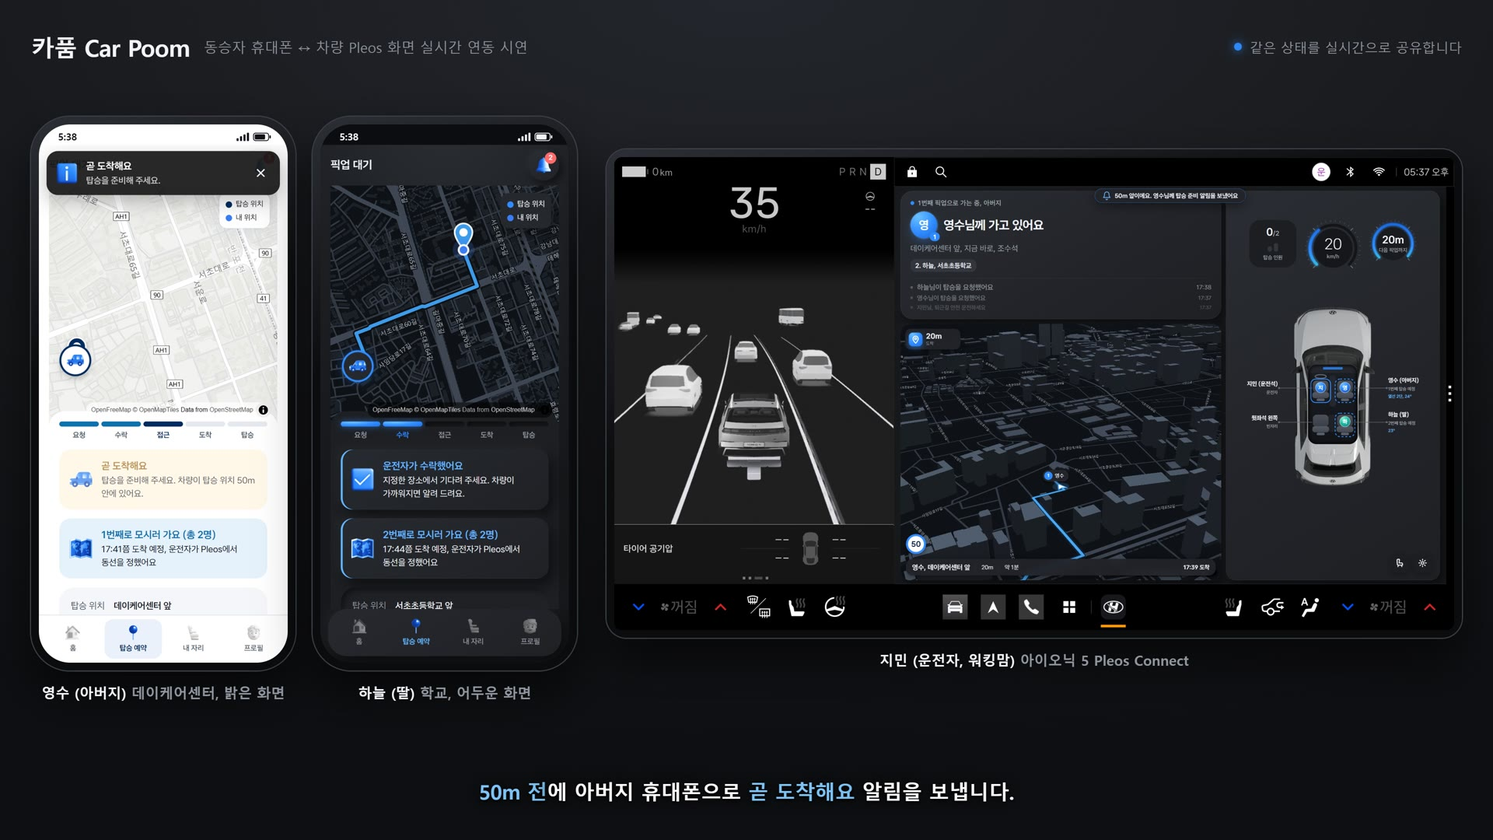
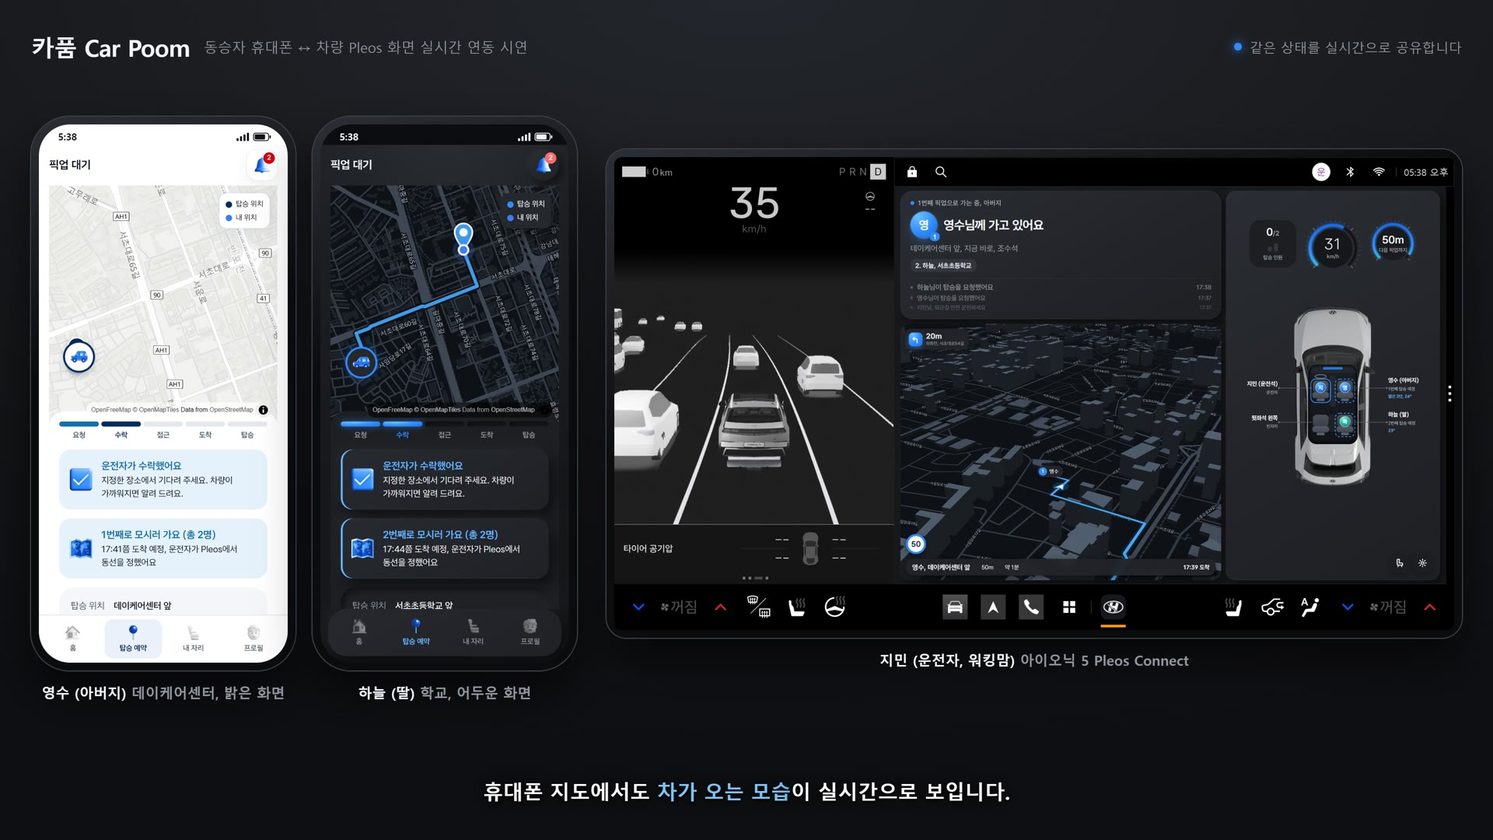
시연 무대의 Pleos 시계가 흐르도록 수정, README 문장 부호와 시연 화면 사진 정리

diff --git a/dist/stage.html b/dist/stage.html
@@ -213,6 +213,24 @@
   .pf .off {
     opacity: 0;
   }
+  /* 캡처한 화면의 시계 자리를 덮고, 휴대폰과 같은 시각을 보여 준다 */
+  .pf .pfclock {
+    position: absolute;
+    left: calc(100% * 2398 / 2560);
+    top: calc(100% * 24 / 1440);
+    width: calc(100% * 160 / 2560);
+    height: calc(100% * 44 / 1440);
+    padding-left: calc(100% * 9 / 2560);
+    box-sizing: border-box;
+    display: flex;
+    align-items: center;
+    background: #000;
+    color: #d4d4d4;
+    font-size: calc(1600px * var(--cs) * 29 / 2560);
+    font-weight: 400;
+    white-space: nowrap;
+    letter-spacing: -0.01em;
+  }
   .stage.framed .carframe .scr {
     border-radius: 10px;
   }
@@ -316,6 +334,7 @@
           <img class="full off" id="pf-heat" alt="" />
           <img class="full off" id="pf-toast" alt="" />
           <video class="left off" id="pf-drive" muted loop playsinline preload="auto"></video>
+          <div class="pfclock" id="pf-clock"></div>
         </div>
         <iframe
           id="f-car"
@@ -349,6 +368,8 @@
       const d = new Date();
       const t = (d.getHours() % 12 || 12) + ':' + String(d.getMinutes()).padStart(2, '0');
       document.querySelectorAll('.pclock').forEach((e) => (e.textContent = t));
+      const car = document.getElementById('pf-clock');
+      if (car) car.textContent = t.padStart(5, '0') + (d.getHours() < 12 ? ' 오전' : ' 오후');
     }
     tick();
     setInterval(tick, 5000);

diff --git a/stage.html b/stage.html
@@ -205,6 +205,24 @@
   .pf .off {
     opacity: 0;
   }
+  /* 캡처한 화면의 시계 자리를 덮고, 휴대폰과 같은 시각을 보여 준다 */
+  .pf .pfclock {
+    position: absolute;
+    left: calc(100% * 2398 / 2560);
+    top: calc(100% * 24 / 1440);
+    width: calc(100% * 160 / 2560);
+    height: calc(100% * 44 / 1440);
+    padding-left: calc(100% * 9 / 2560);
+    box-sizing: border-box;
+    display: flex;
+    align-items: center;
+    background: #000;
+    color: #d4d4d4;
+    font-size: calc(1600px * var(--cs) * 29 / 2560);
+    font-weight: 400;
+    white-space: nowrap;
+    letter-spacing: -0.01em;
+  }
   .stage.framed .carframe .scr {
     border-radius: 10px;
   }
@@ -308,6 +326,7 @@
           <img class="full off" id="pf-heat" alt="" />
           <img class="full off" id="pf-toast" alt="" />
           <video class="left off" id="pf-drive" muted loop playsinline preload="auto"></video>
+          <div class="pfclock" id="pf-clock"></div>
         </div>
         <iframe
           id="f-car"
@@ -341,6 +360,8 @@
       const d = new Date();
       const t = (d.getHours() % 12 || 12) + ':' + String(d.getMinutes()).padStart(2, '0');
       document.querySelectorAll('.pclock').forEach((e) => (e.textContent = t));
+      const car = document.getElementById('pf-clock');
+      if (car) car.textContent = t.padStart(5, '0') + (d.getHours() < 12 ? ' 오전' : ' 오후');
     }
     tick();
     setInterval(tick, 5000);

diff --git a/README.md b/README.md
@@ -2,9 +2,9 @@
 
 ![카품 엠블럼과 팀 이름](docs/images/team.jpg)
 
-카품(Car Poom)은 **동승자의 탑승 예약과 개인별 차량 설정을 연결하는 서비스**로, 티키타카(TikiTa_Car) 팀이 현대자동차그룹 차량용 앱 개발 공모전(Pleos Connect) 출품을 위해 기획·개발하였으며 동승자용 모바일 앱과 운전자용 차량 앱으로 구성됩니다.
+카품(Car Poom)은 **동승자의 탑승 예약과 개인별 차량 설정을 연결하는 서비스**로, 티키타카(TikiTa_Car) 팀이 현대자동차그룹 차량용 앱 개발 공모전(Pleos Connect) 출품을 위해 기획하고 개발하였으며 동승자용 모바일 앱과 운전자용 차량 앱으로 구성됩니다.
 
-동승자가 탑승 전에 모바일 앱에서 탑승 위치·시간·희망 좌석과 개인 설정을 등록하면, 운전자는 차량 화면에서 요청을 확인하고 픽업 순서와 좌석을 배정합니다. 탑승한 뒤에는 확인된 좌석에 개인 설정을 적용해 픽업 준비부터 탑승 환경 조정까지 하나의 흐름으로 이어지도록 했습니다.
+동승자가 탑승 전에 모바일 앱에서 탑승 위치, 시간, 희망 좌석과 개인 설정을 등록하면, 운전자는 차량 화면에서 요청을 확인하고 픽업 순서와 좌석을 배정합니다. 탑승한 뒤에는 확인된 좌석에 개인 설정을 적용해 픽업 준비부터 탑승 환경 조정까지 하나의 흐름으로 이어지도록 했습니다.
 
 이 저장소는 이 과정을 바로 시연할 수 있도록 **웹과 안드로이드 앱으로 구현해 두었습니다**. 안드로이드 기기에서는 `apk/` 폴더의 APK를 설치해 모바일 앱과 차량 앱을 실행하고(차량 앱은 Pleos Connect Emulator v2.1.0에서 구동을 확인했습니다), 브라우저에서는 `dist/stage.html`을 열어 두 화면이 연동되는 과정을 시연할 수 있습니다. 실제 차량 제어와 Pleos SDK 연동은 다음 개발 단계에서 진행하며, 지금 화면에 표시되는 차량 상태와 설정 적용 결과는 시뮬레이션입니다.
 
@@ -20,16 +20,16 @@
 
 가족이나 지인을 태울 때 운전자는 탑승 위치와 시간을 확인해야 하고, 탑승 후에는 좌석이나 공조 설정 요청에도 대응해야 합니다. 동승자 역시 자신의 선호를 매번 말로 전하거나 차에 탄 뒤 설정을 다시 맞춰야 하는 불편이 있습니다.
 
-카품은 탑승에 필요한 정보와 개인 설정을 미리 공유해 운전자의 반복적인 확인·조작 부담을 줄이고, 동승자가 자신의 선호에 맞는 탑승 환경을 미리 준비할 수 있도록 하는 것을 목표로 합니다.
+카품은 탑승에 필요한 정보와 개인 설정을 미리 공유해 운전자의 반복적인 확인과 조작 부담을 줄이고, 동승자가 자신의 선호에 맞는 탑승 환경을 미리 준비할 수 있도록 하는 것을 목표로 합니다.
 
-| 항목      | 내용                                                                                |
-| --------- | ----------------------------------------------------------------------------------- |
-| 개발 주체 | 티키타카(TikiTa_Car) 팀                                                             |
-| 이용 대상 | 차량 소유자인 운전자와 운전자가 초대한 성인·미성년 동승자                           |
-| 이용 시점 | 탑승 예약, 픽업 이동, 탑승 확인 및 정차 상태의 설정 적용 단계                       |
-| 이용 환경 | 동승자의 모바일 앱과 운전자의 Pleos Connect 차량 앱                                 |
-| 주요 기능 | 탑승 예약, 차량별 권한 관리, 픽업 순서 관리, 좌석 배정 및 개인 설정 적용            |
-| 이용 방식 | 모바일에서 예약·설정을 등록하고, 차량 화면에서 픽업 수락·탑승 확인·설정 적용을 진행 |
+| 항목      | 내용                                                                                    |
+| --------- | --------------------------------------------------------------------------------------- |
+| 개발 주체 | 티키타카(TikiTa_Car) 팀                                                                 |
+| 이용 대상 | 차량 소유자인 운전자와 운전자가 초대한 성인 및 미성년 동승자                            |
+| 이용 시점 | 탑승 예약, 픽업 이동, 탑승 확인 및 정차 상태의 설정 적용 단계                           |
+| 이용 환경 | 동승자의 모바일 앱과 운전자의 Pleos Connect 차량 앱                                     |
+| 주요 기능 | 탑승 예약, 차량별 권한 관리, 픽업 순서 관리, 좌석 배정 및 개인 설정 적용                |
+| 이용 방식 | 모바일에서 예약과 설정을 등록하고, 차량 화면에서 픽업 수락, 탑승 확인, 설정 적용을 진행 |
 
 ‘카품’은 자동차를 뜻하는 Car와 사람을 감싸 안는 ‘품’을 결합한 이름이고, 엠블럼은 안전벨트를 연상시키는 곡선이 H를 감싸는 형태로 탑승자를 배려하는 서비스의 방향을 표현했습니다.
 
@@ -39,7 +39,7 @@
 
 - **탑승 예약:** 동승자가 지도에서 탑승 위치를 지정하고, 즉시 탑승이나 희망 시간과 좌석을 선택해 요청합니다.
 - **차량별 권한 관리:** 운전자가 동승자를 초대해 설정 변경 권한을 부여하며, 성인과 미성년 동승자에게 같은 원칙을 적용해 권한이 없는 동승자의 설정은 운전자가 관리합니다.
-- **개인 설정 관리:** 좌석 위치, 등받이, 열선·통풍, 공조와 창문 설정을 저장해 두고 탑승할 좌석에 연결합니다.
+- **개인 설정 관리:** 좌석 위치, 등받이, 열선과 통풍, 공조와 창문 설정을 저장해 두고 탑승할 좌석에 연결합니다.
 - **픽업 및 좌석 관리:** 운전자가 요청을 수락하고 픽업 순서와 좌석을 배정하면, 차량 화면에서 경로와 탑승 예정 좌석을 함께 확인할 수 있습니다.
 - **탑승 확인 및 설정 적용:** 차량 화면에서 탑승자와 좌석을 확인한 뒤 저장된 설정을 적용하며, 현재는 이 과정을 시뮬레이션으로 보여 줍니다.
 
@@ -67,11 +67,11 @@
 
 ### 시연 계정 및 권한
 
-| 계정         | 역할        | 차량 12가 3456              | 차량 34나 7890 |
-| ------------ | ----------- | --------------------------- | -------------- |
-| `u_jimin`    | 운전자      | 차량 소유자                 | 차량 소유자    |
-| `u_youngsoo` | 아버지      | 초대 완료, 설정 변경 가능   | 초대되지 않음  |
-| `u_haneul`   | 딸·초등학생 | 초대 완료, 설정 조회만 가능 | 설정 변경 가능 |
+| 계정         | 역할         | 차량 12가 3456              | 차량 34나 7890 |
+| ------------ | ------------ | --------------------------- | -------------- |
+| `u_jimin`    | 운전자       | 차량 소유자                 | 차량 소유자    |
+| `u_youngsoo` | 아버지       | 초대 완료, 설정 변경 가능   | 초대되지 않음  |
+| `u_haneul`   | 딸, 초등학생 | 초대 완료, 설정 조회만 가능 | 설정 변경 가능 |
 
 두 차량은 같은 사용자라도 차량마다 권한이 다를 수 있다는 점을 보여 주며, 동승자가 설정을 바꿀 수 있는지는 나이가 아니라 해당 차량의 운전자가 준 권한에 따라 정해집니다.
 
@@ -91,11 +91,11 @@
 1. 기기에서 APK 파일을 열어 설치합니다. 처음 설치할 때는 ‘출처를 알 수 없는 앱 설치’를 허용해야 하며, PC에 연결한 기기에는 `adb install apk/티키타카_카품_release.apk`로 설치할 수도 있습니다.
 2. **카품 Pleos**를 열고 ‘지민님 휴대폰으로 스캔’을 눌러 차량과 연결합니다.
 3. 좌석 패널 오른쪽 아래의 **설정 → 픽업 요청 받기**를 누르면 아버지와 딸의 픽업 요청이 들어오고, 이어서 픽업 수락, 좌석 배정, 길 안내, 탑승 확인 순서로 진행합니다. 같은 설정 창에서 ‘빨리 감기’를 켜면 이동 시간이 짧아집니다.
-4. **카품**을 열어 시연 계정(지민·영수·하늘)을 고르면, 차량 앱에서 진행한 요청과 수락 상태가 각 계정의 휴대폰 화면에 그대로 표시됩니다.
+4. **카품**을 열어 시연 계정(지민, 영수, 하늘)을 고르면, 차량 앱에서 진행한 요청과 수락 상태가 각 계정의 휴대폰 화면에 그대로 표시됩니다.
 
 ### Pleos Connect Emulator에서 실행
 
-차량 앱은 Pleos Connect의 앱 창 안에서 실행됩니다. 위쪽 상태 표시줄, 아래쪽 공조·앱 막대, 왼쪽 주행 정보 화면은 Pleos 시스템이 표시하므로, 앱은 남은 앱 창을 빈틈없이 채우고 밝은 화면과 어두운 화면에 맞춰 시작 화면 영상을 바꿉니다.
+차량 앱은 Pleos Connect의 앱 창 안에서 실행됩니다. 위쪽 상태 표시줄, 아래쪽 공조 및 앱 막대, 왼쪽 주행 정보 화면은 Pleos 시스템이 표시하므로, 앱은 남은 앱 창을 빈틈없이 채우고 밝은 화면과 어두운 화면에 맞춰 시작 화면 영상을 바꿉니다.
 
 1. [Pleos Connect Emulator 설치 안내](https://document.pleos.ai/docs/connect/guide/getting-started/application-development/setup-connect-sdk-emulator)에 따라 Android Studio의 SDK Manager에서 Pleos Connect v2.1.0 시스템 이미지를 받고, AVD를 만들어 Cold boot로 실행합니다.
 2. `adb install apk/티키타카_카품_release.apk`로 설치한 뒤 앱 목록에서 **카품 Pleos**를 실행합니다.
@@ -135,12 +135,12 @@ URL 쿼리 매개변수로 시연 계정, 차량, 화면 테마를 지정할 수
 
 ### 테스트 환경 및 필요한 설정
 
-| 실행 방식   | 테스트 환경                                                                    | 확인한 내용                                                                                                      |
-| ----------- | ------------------------------------------------------------------------------ | ---------------------------------------------------------------------------------------------------------------- |
-| APK, Pleos  | Pleos Connect Emulator v2.1.0(Android 14, API 34, 2560×1440)과 Virtual Console | 앱 창 표시, 시작 화면, 픽업 수락부터 길 안내까지의 흐름, 주행 중(기어 D, 속도 입력) 사용과 밝은 화면·어두운 화면 |
-| APK, 차량   | Android Automotive OS 13 에뮬레이터(x86_64)                                    | 설치와 실행, 차량 연결부터 픽업 수락, 좌석 배정, 길 안내까지의 흐름                                              |
-| APK, 휴대폰 | Android 15 에뮬레이터(Pixel 7)                                                 | 두 앱의 실행, 앱 사이의 상태 연동, 밝은 화면과 어두운 화면                                                       |
-| 브라우저    | Windows의 Chrome                                                               | `dist/` 화면과 자동 테스트(`npm test`)                                                                           |
+| 실행 방식   | 테스트 환경                                                                    | 확인한 내용                                                                                                       |
+| ----------- | ------------------------------------------------------------------------------ | ----------------------------------------------------------------------------------------------------------------- |
+| APK, Pleos  | Pleos Connect Emulator v2.1.0(Android 14, API 34, 2560×1440)과 Virtual Console | 앱 창 표시, 시작 화면, 픽업 수락부터 길 안내까지의 흐름, 주행 중(기어 D, 속도 입력) 사용, 밝은 화면과 어두운 화면 |
+| APK, 차량   | Android Automotive OS 13 에뮬레이터(x86_64)                                    | 설치와 실행, 차량 연결부터 픽업 수락, 좌석 배정, 길 안내까지의 흐름                                               |
+| APK, 휴대폰 | Android 15 에뮬레이터(Pixel 7)                                                 | 두 앱의 실행, 앱 사이의 상태 연동, 밝은 화면과 어두운 화면                                                        |
+| 브라우저    | Windows의 Chrome                                                               | `dist/` 화면과 자동 테스트(`npm test`)                                                                            |
 
 - APK는 Android 9(API 28) 이상에서 실행됩니다.
 - 지도 타일과 Asta Sans 서체를 불러오기 위해 인터넷 연결이 필요합니다.
@@ -152,11 +152,11 @@ URL 쿼리 매개변수로 시연 계정, 차량, 화면 테마를 지정할 수
 
 | 항목                   | 현재 웹 구현                                                                    | 후속 연동 계획                           |
 | ---------------------- | ------------------------------------------------------------------------------- | ---------------------------------------- |
-| 화면 간 상태 공유      | 단일 기기의 브라우저에서 `postMessage`, `BroadcastChannel`, `localStorage` 사용 | 서버를 통한 모바일·차량 간 상태 동기화   |
+| 화면 간 상태 공유      | 단일 기기의 브라우저에서 `postMessage`, `BroadcastChannel`, `localStorage` 사용 | 서버를 통한 모바일과 차량 간 상태 동기화 |
 | 지도 및 경로           | OpenFreeMap 타일, 사전 저장 경로, OSRM 공개 서버 사용                           | 모바일 지도 SDK 및 Pleos NaviHelper 연동 |
 | 차량 위치              | 경로를 따라 이동하는 차량 위치 시뮬레이션                                       | FusedLocation 기반 실제 위치 연동        |
 | 좌석 상태 및 설정 적용 | 화면 표시와 상태 변경 시뮬레이션                                                | Vehicle SDK 기반 상태 조회 및 차량 제어  |
-| 인증·알림·통화         | QR 연결, 본인·연령 확인, 알림·통화의 화면 및 동작 흐름 시연                     | 실제 인증, 푸시 알림 및 통화 서비스 연동 |
+| 인증, 알림, 통화       | QR 연결, 본인 및 연령 확인, 알림과 통화의 화면 및 동작 흐름 시연                | 실제 인증, 푸시 알림 및 통화 서비스 연동 |
 | 플레이리스트 추천      | 대기 화면에 추천 카드만 표시, 음원 재생 없음                                    | Pleos 음악 앱 연동                       |
 
 ### 기능별 SDK/API 활용 계획
@@ -171,10 +171,10 @@ URL 쿼리 매개변수로 시연 계정, 차량, 화면 테마를 지정할 수
 | 창문 설정                     | `setWindowPosition`                                                                            |
 | 좌석 점유 상태 확인           | `registerSeatOccupancy`, `getCurrentSeatOccupancy`                                             |
 | 차량별 지원 기능 및 범위 확인 | 기능별 capability 조회 및 `AreaBounds` 확인                                                    |
-| 목적지·경유지 경로 안내       | NaviHelper의 `requestRouteWithWaypoints` 및 경유지 도착 이벤트                                 |
+| 목적지 및 경유지 경로 안내    | NaviHelper의 `requestRouteWithWaypoints` 및 경유지 도착 이벤트                                 |
 | 탑승 위치 50m 전 접근 감지    | FusedLocation의 `addProximityAlert`를 활용하고 모바일 알림 서비스와 연결                       |
 
-차량 제어와 위치·경로 연동은 [Vehicle SDK](https://document.pleos.ai/docs/pleos-only/connect-sdk-pleos/Vehicle/intro), [NaviHelper](https://document.pleos.ai/docs/pleos-only/connect-sdk-pleos/NaviHelper/route-with-waypoints), [FusedLocation](https://document.pleos.ai/docs/pleos-only/connect-sdk-pleos/FusedLocation/intro) 공식 문서를 기준으로 구체화합니다.
+차량 제어와 위치 및 경로 연동은 [Vehicle SDK](https://document.pleos.ai/docs/pleos-only/connect-sdk-pleos/Vehicle/intro), [NaviHelper](https://document.pleos.ai/docs/pleos-only/connect-sdk-pleos/NaviHelper/route-with-waypoints), [FusedLocation](https://document.pleos.ai/docs/pleos-only/connect-sdk-pleos/FusedLocation/intro) 공식 문서를 기준으로 구체화합니다.
 
 ### 연동 시 적용 원칙
 
@@ -192,7 +192,7 @@ URL 쿼리 매개변수로 시연 계정, 차량, 화면 테마를 지정할 수
 ```bash
 npm install       # 개발 의존성 설치
 npm run build     # dist/ 빌드 결과물 생성
-npm test          # 빌드 후 핵심 로직·모바일 UI·차량 연동 테스트 실행
+npm test          # 빌드 후 핵심 로직, 모바일 UI, 차량 연동 테스트 실행
 npm run video     # 시연 영상 녹화 및 demo/ 저장: ffmpeg 필요
 npm run format    # Prettier를 이용한 코드 서식 정리
 ```
@@ -247,15 +247,15 @@ cd android
 
 외부 자료의 출처와 라이선스 고지는 [`assets/LICENSES.txt`](assets/LICENSES.txt)에 정리하였습니다.
 
-| 자료                                   | 사용 목적                                       | 출처 및 라이선스                                                                           |
-| -------------------------------------- | ----------------------------------------------- | ------------------------------------------------------------------------------------------ |
-| Asta Sans                              | 기본 화면 서체                                  | SIL OFL 1.1                                                                                |
-| Pretendard 1.3.9                       | 오프라인 대체 서체: 필요한 글자를 포함한 수정본 | SIL OFL 1.1                                                                                |
-| MapLibre GL JS 5.6.0                   | 지도 렌더링: 한글 도로명 표시 방식 일부 수정    | BSD-3-Clause                                                                               |
-| OpenFreeMap·OpenMapTiles·OpenStreetMap | 지도 타일 및 데이터                             | 출처 표기 및 세부 고지 참조. OpenStreetMap 데이터: © OpenStreetMap contributors, ODbL 1.0 |
-| OSRM 공개 서버                         | 시연용 경로 계산                                | 경로 데이터: © OpenStreetMap contributors                                                 |
-| three.js r128                          | 모바일 앱의 3D 좌석 표현                        | MIT                                                                                        |
-| Microsoft Fluent Emoji 3D              | 모바일 아이콘: 블루 톤으로 색상 수정            | MIT                                                                                        |
-| AndroidX WebKit 1.12.1                 | APK에서 앱 안의 화면 불러오기                   | Apache License 2.0                                                                         |
-| Hyundai Ioniq 5 N (2025) 3D 모델       | 차량 이미지와 시작 화면 영상을 렌더링           | Sketchfab, geyges 제작, Sketchfab Standard License. 렌더링 결과만 포함                     |
-| Poly Haven HDRI                        | 낮 화면 시작 영상의 하늘 조명                   | CC0                                                                                        |
+| 자료                                     | 사용 목적                                       | 출처 및 라이선스                                                                           |
+| ---------------------------------------- | ----------------------------------------------- | ------------------------------------------------------------------------------------------ |
+| Asta Sans                                | 기본 화면 서체                                  | SIL OFL 1.1                                                                                |
+| Pretendard 1.3.9                         | 오프라인 대체 서체: 필요한 글자를 포함한 수정본 | SIL OFL 1.1                                                                                |
+| MapLibre GL JS 5.6.0                     | 지도 렌더링: 한글 도로명 표시 방식 일부 수정    | BSD-3-Clause                                                                               |
+| OpenFreeMap, OpenMapTiles, OpenStreetMap | 지도 타일 및 데이터                             | 출처 표기 및 세부 고지 참조. OpenStreetMap 데이터: © OpenStreetMap contributors, ODbL 1.0 |
+| OSRM 공개 서버                           | 시연용 경로 계산                                | 경로 데이터: © OpenStreetMap contributors                                                 |
+| three.js r128                            | 모바일 앱의 3D 좌석 표현                        | MIT                                                                                        |
+| Microsoft Fluent Emoji 3D                | 모바일 아이콘: 블루 톤으로 색상 수정            | MIT                                                                                        |
+| AndroidX WebKit 1.12.1                   | APK에서 앱 안의 화면 불러오기                   | Apache License 2.0                                                                         |
+| Hyundai Ioniq 5 N (2025) 3D 모델         | 차량 이미지와 시작 화면 영상을 렌더링           | Sketchfab, geyges 제작, Sketchfab Standard License. 렌더링 결과만 포함                     |
+| Poly Haven HDRI                          | 낮 화면 시작 영상의 하늘 조명                   | CC0                                                                                        |
